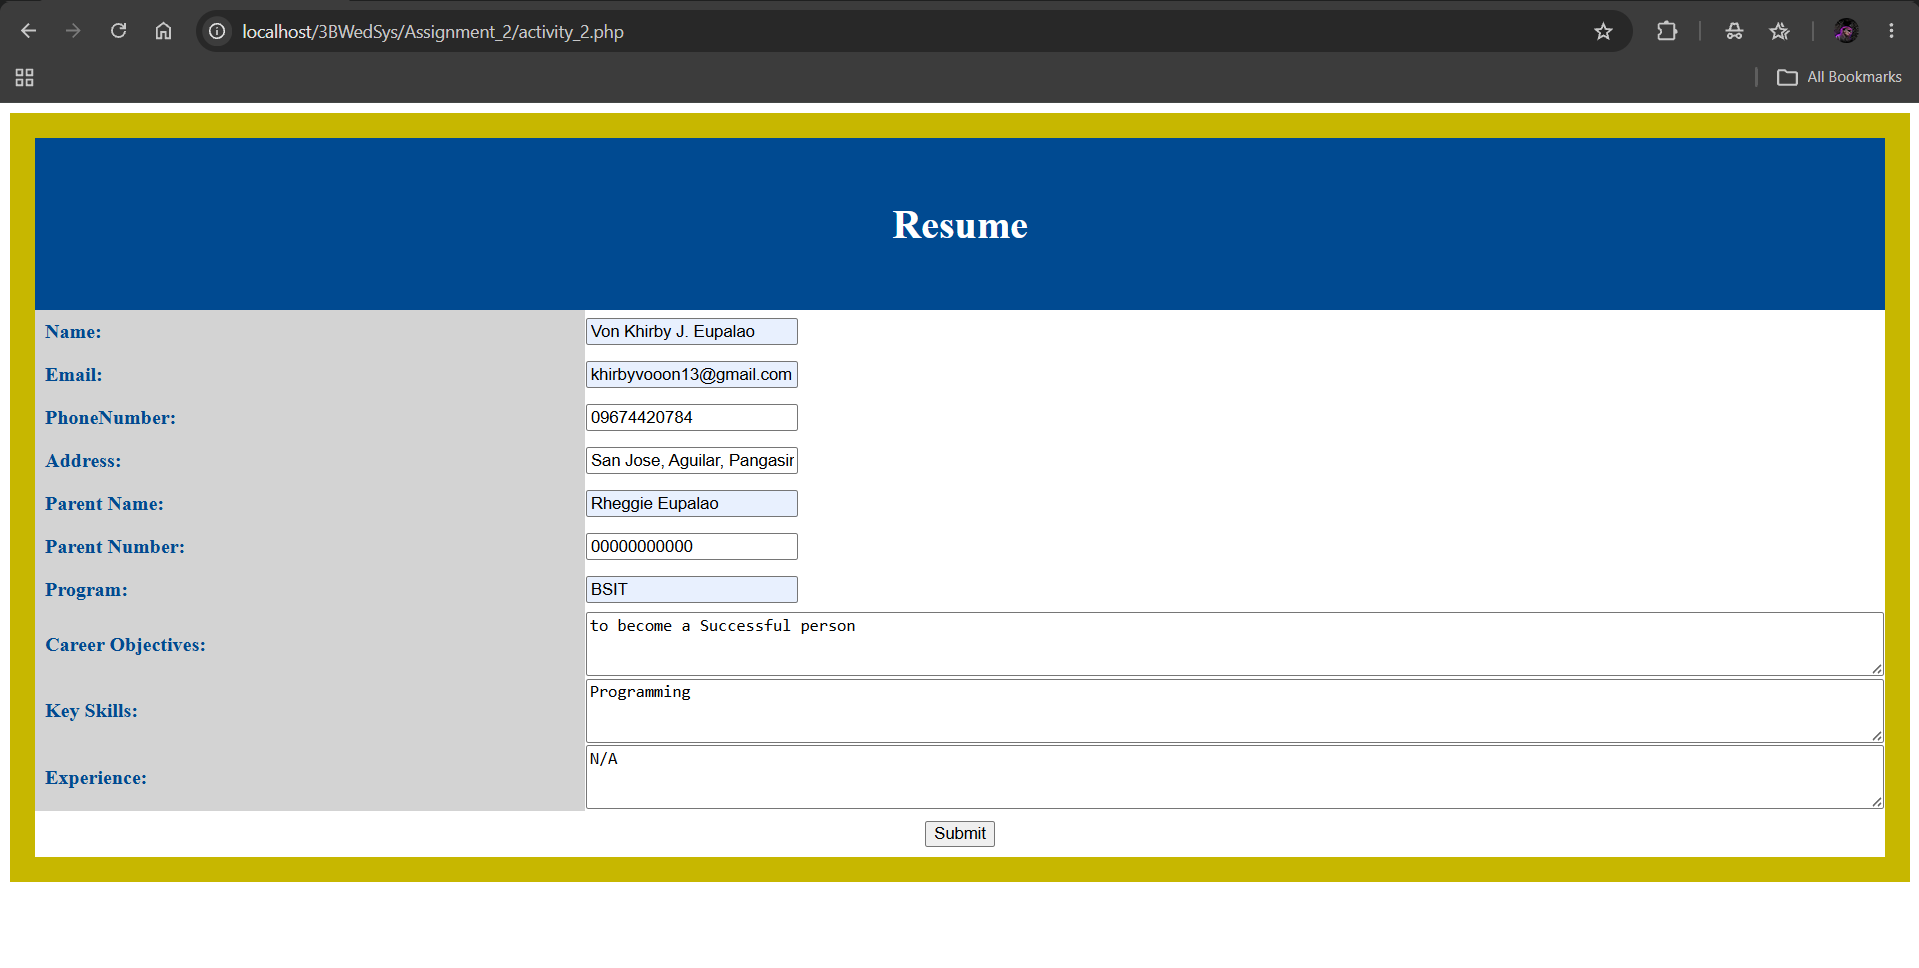
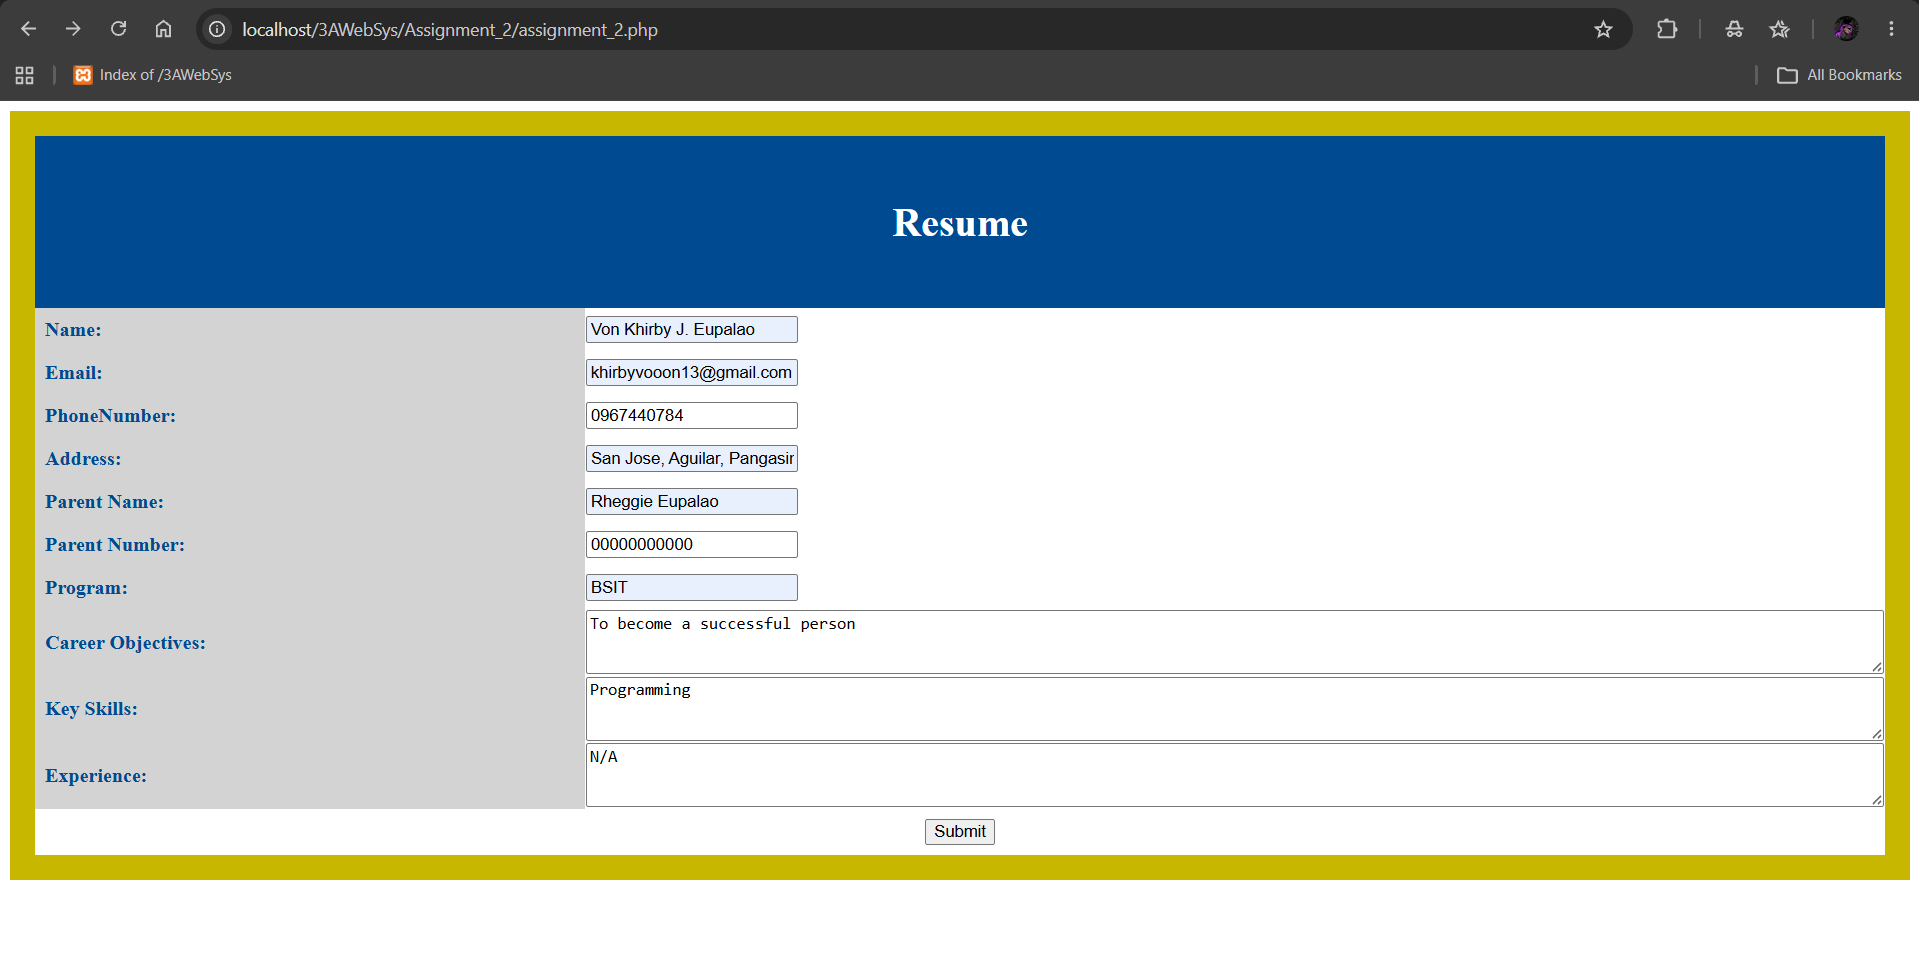
name change

diff --git a/Assignment_2/assignment_2.php b/Assignment_2/assignment_2.php
@@ -1,4 +1,4 @@
-<form action="activity_2(2).php" method="get">
+<form action="assignment_2(2).php" method="get">
     <table style="width:100%; border: 20px solid #c7b700; border-collapse: collapse; color: #004a91">
         <tr>
             <td colspan="2" style="background-color: #004a91; padding: 50px; text-align:center">
